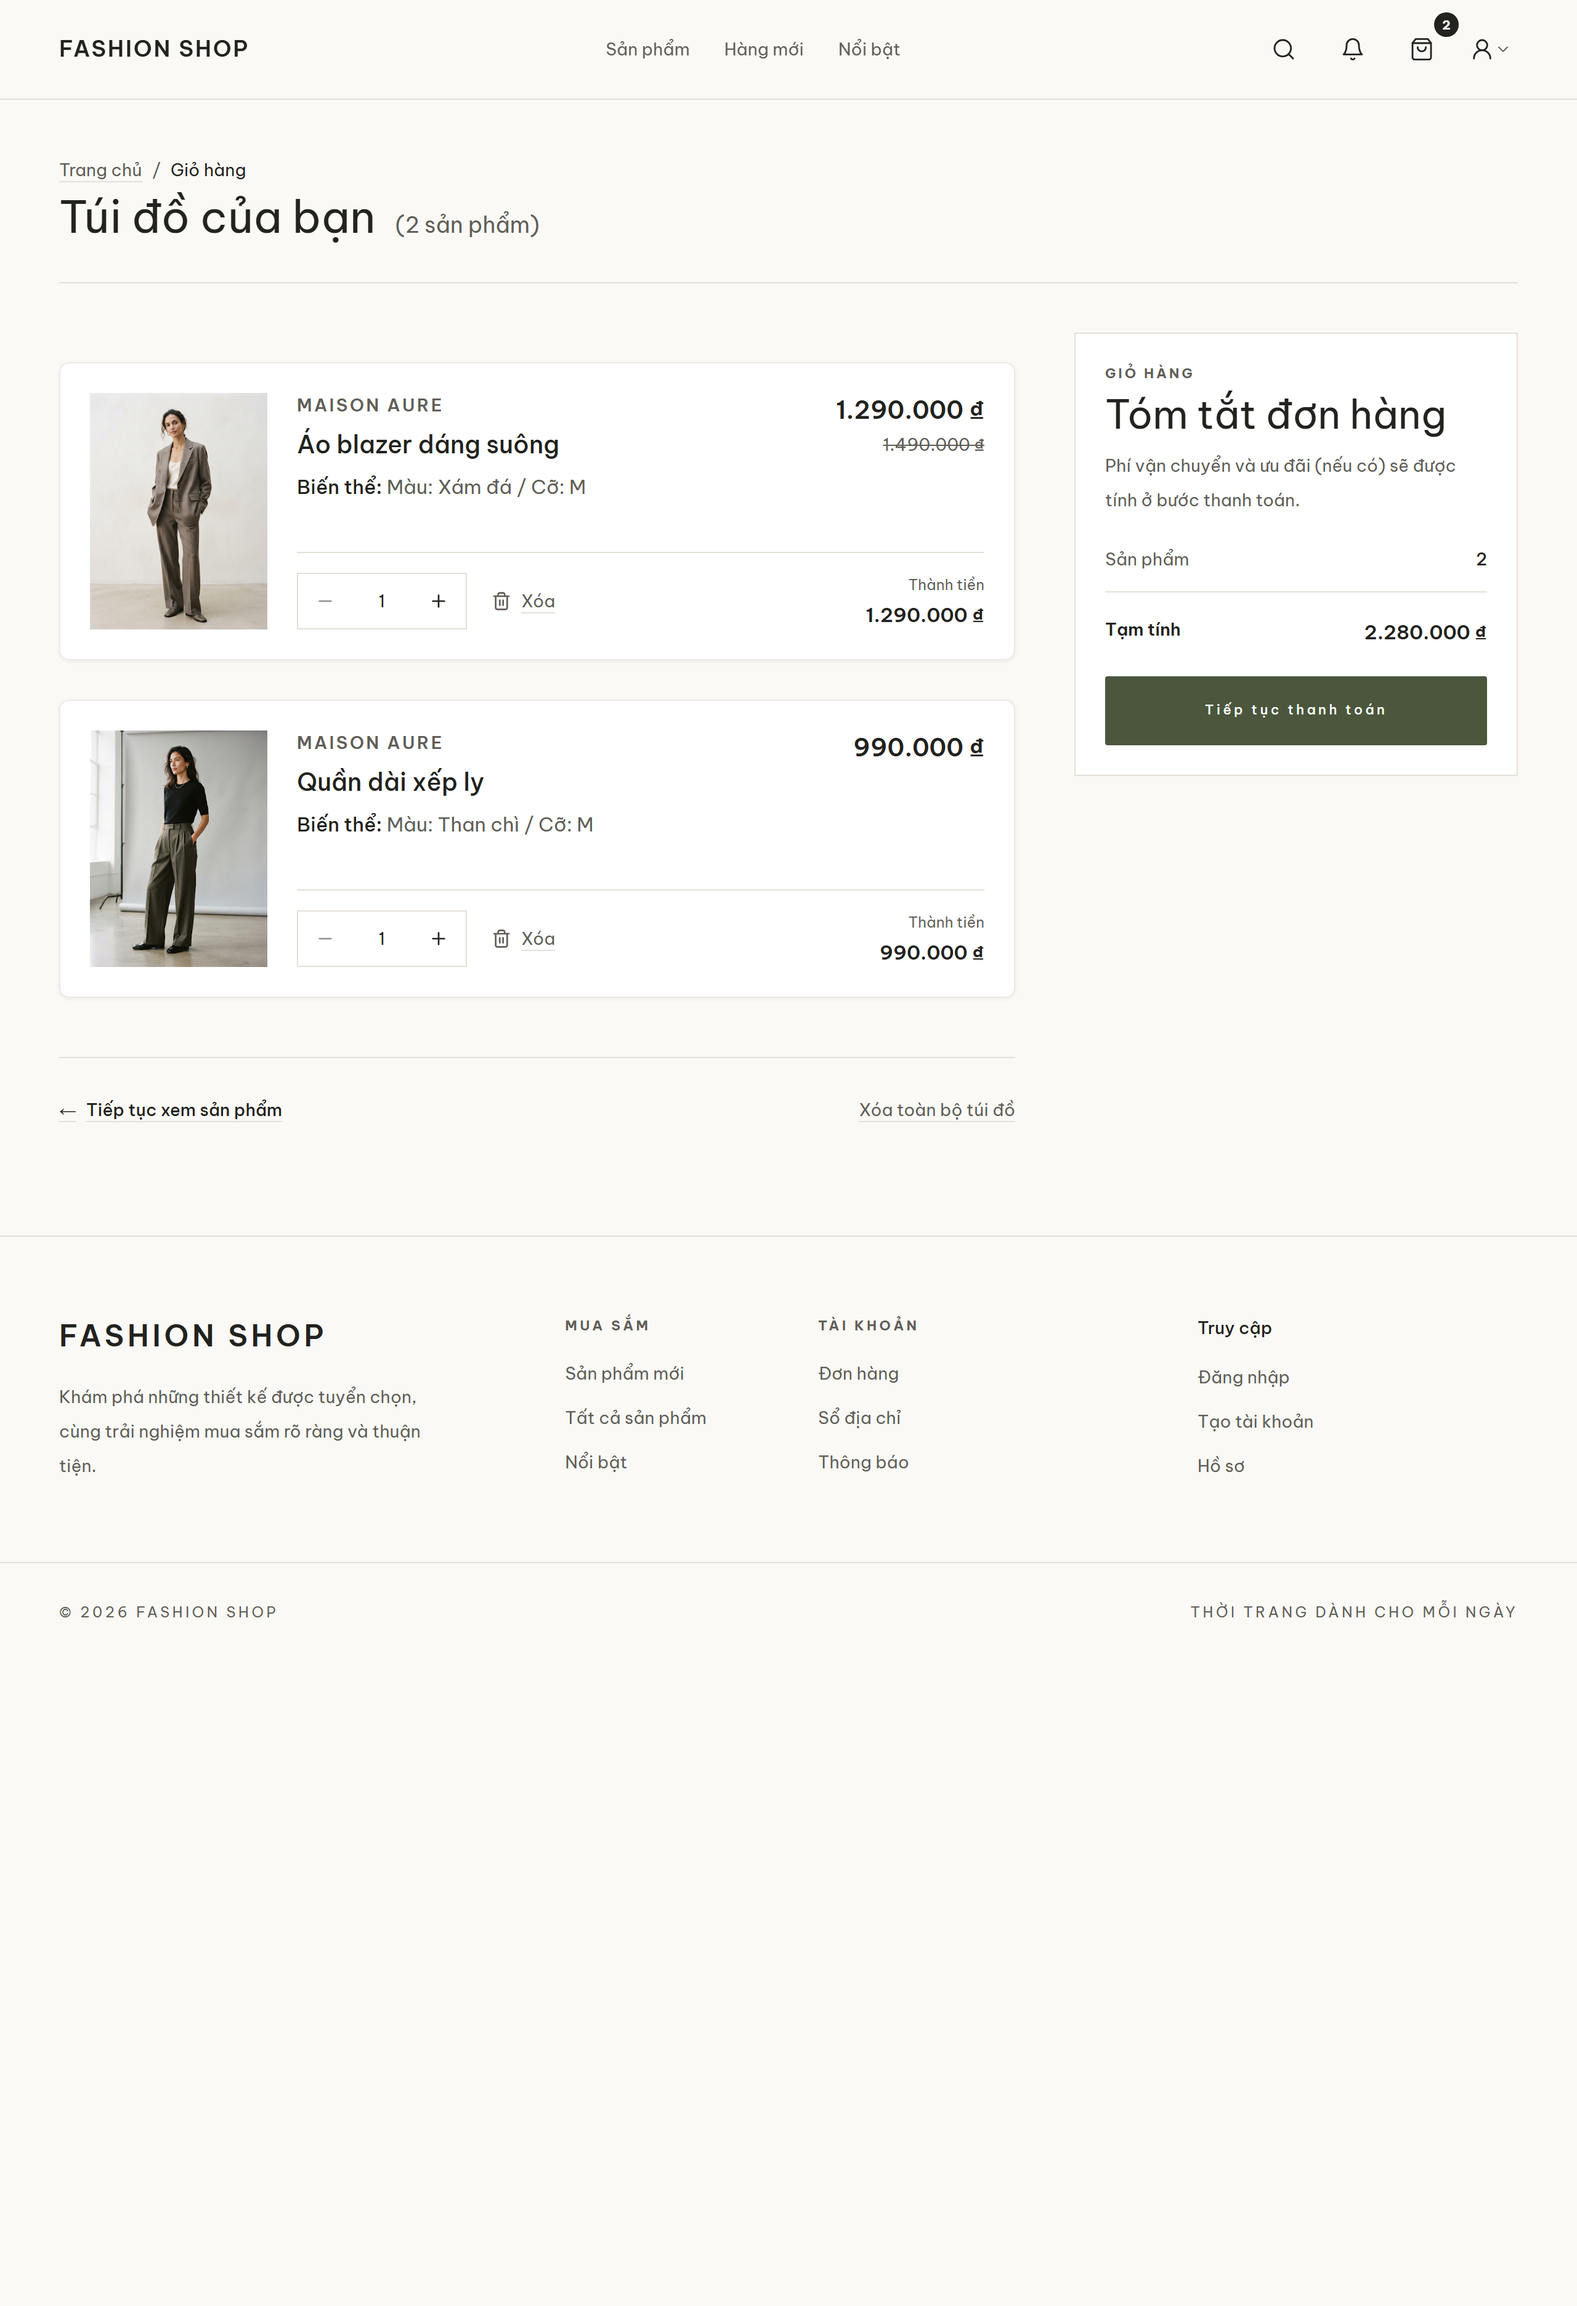
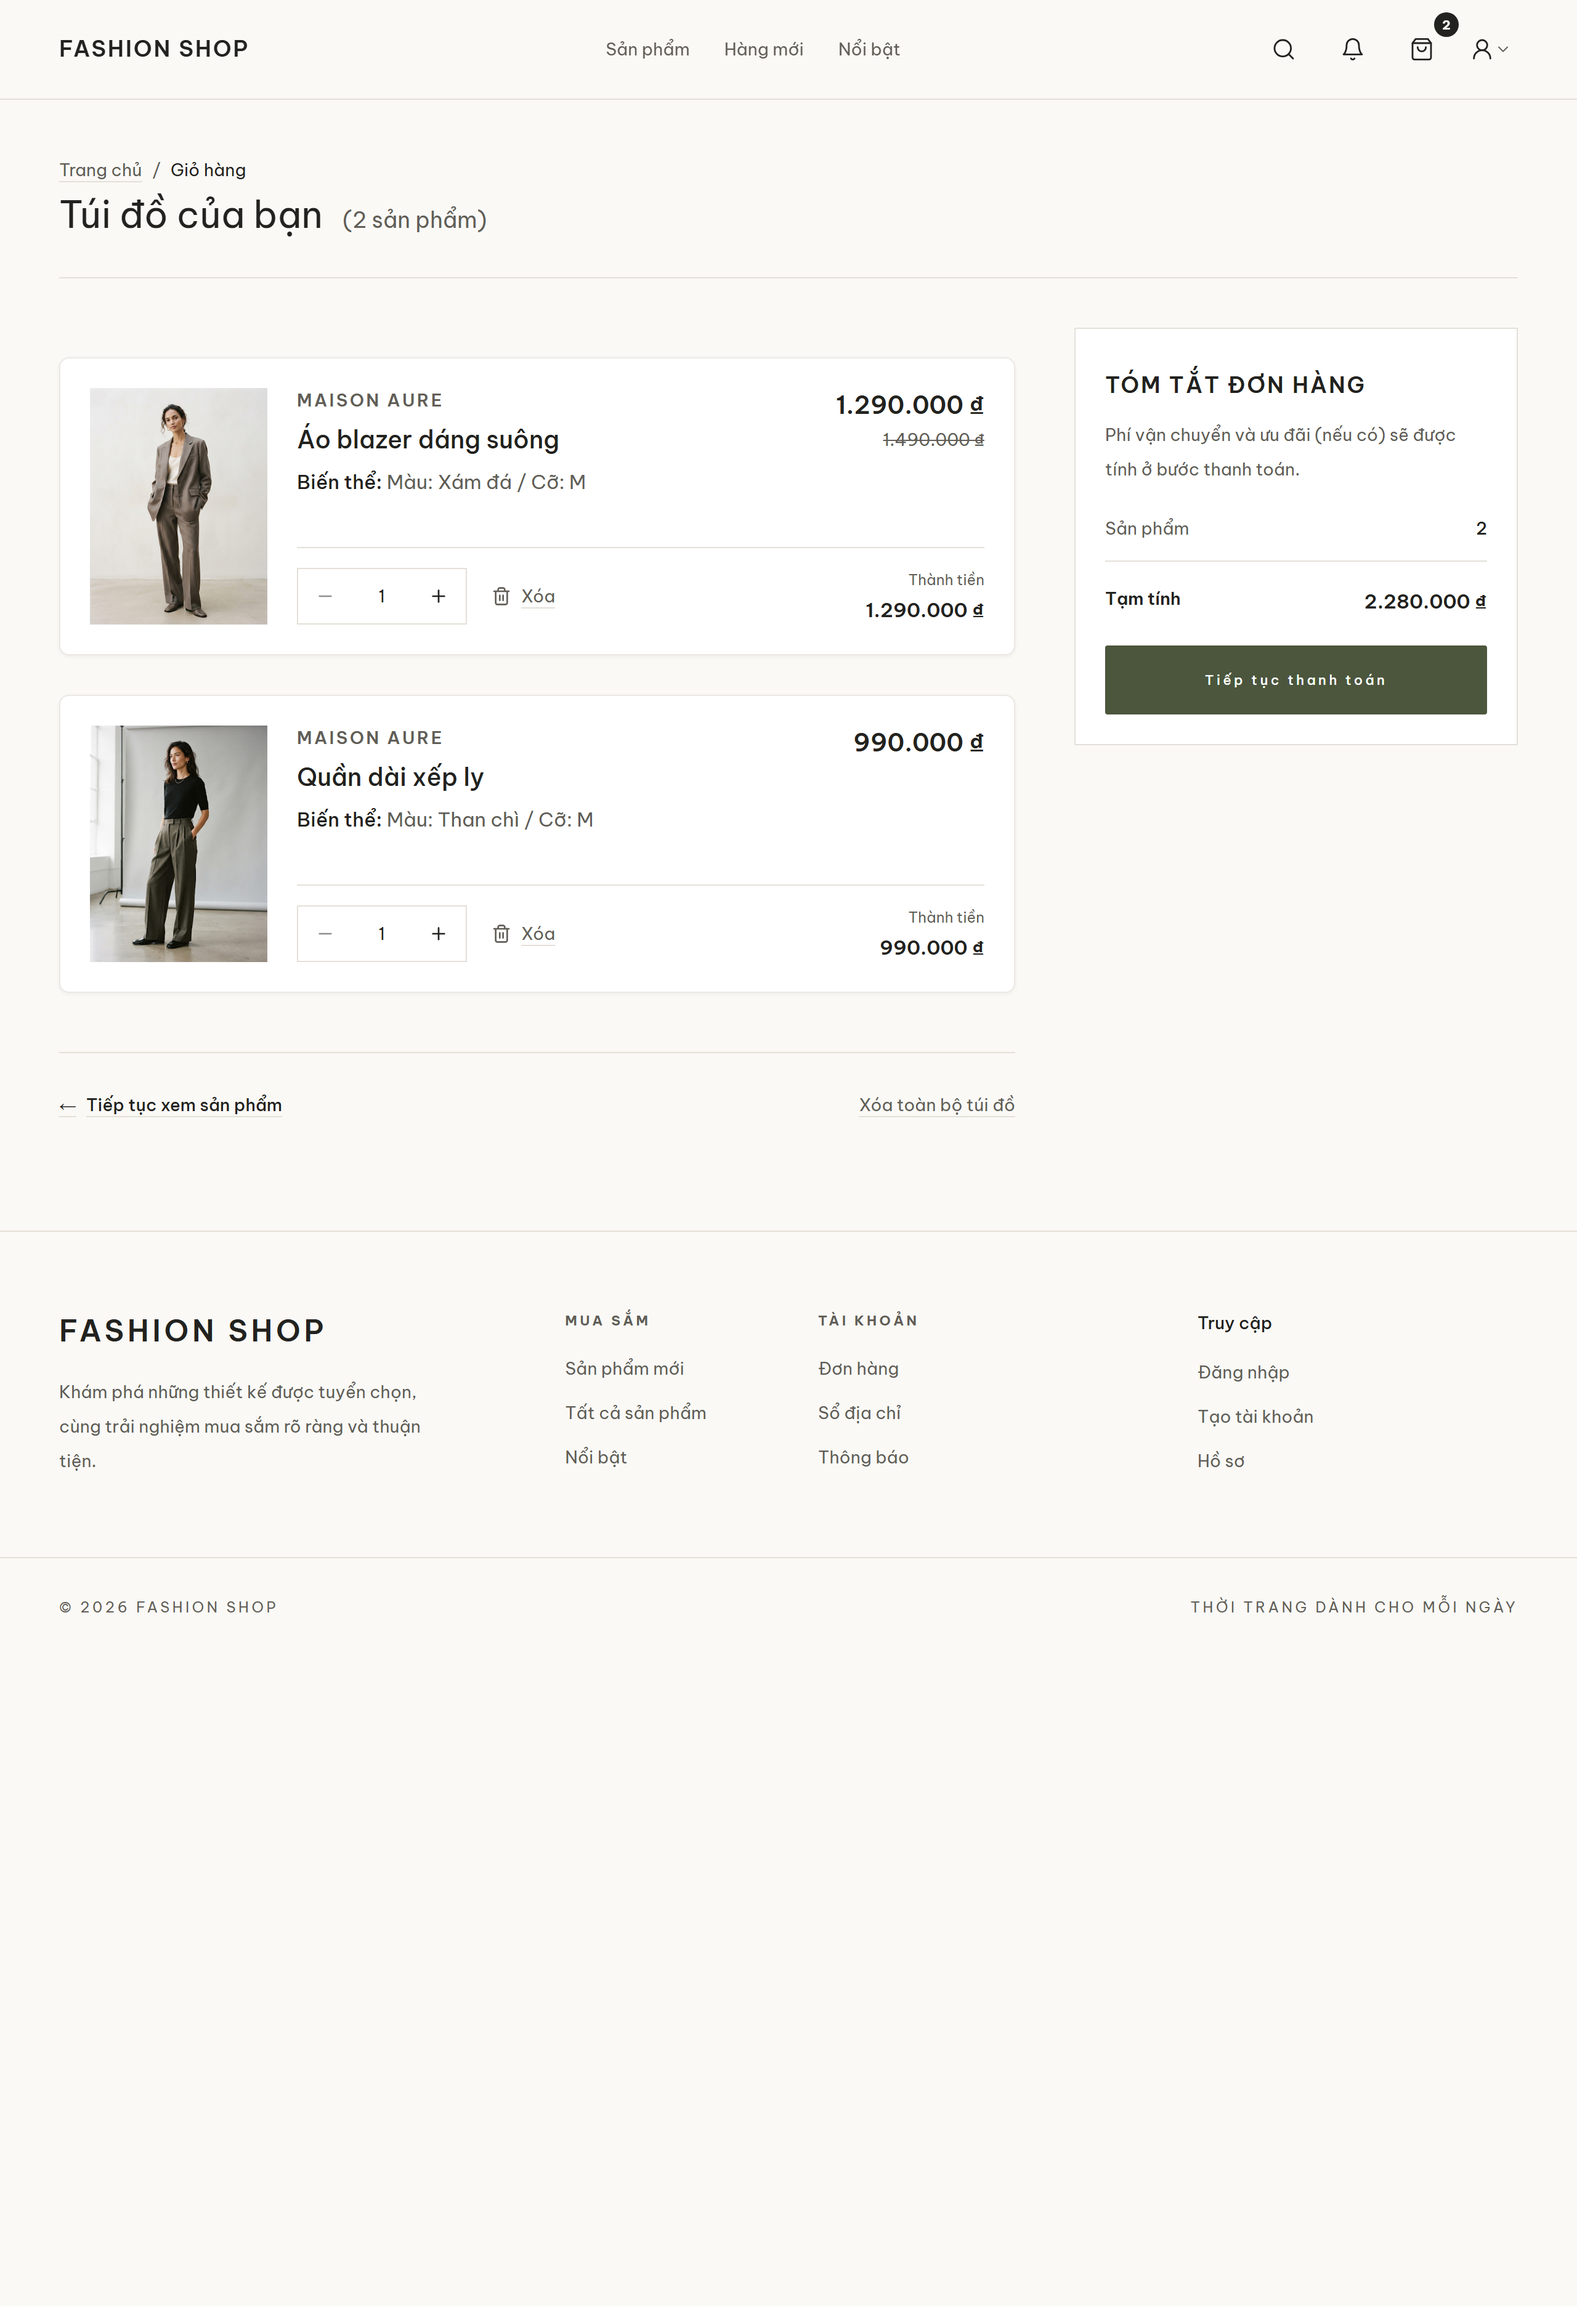
fix(cart): align mobile layout with reviewed design

diff --git a/src/shared/components/commerce/CartItemCard.tsx b/src/shared/components/commerce/CartItemCard.tsx
@@ -17,7 +17,7 @@ export const CartItemCard = ({ item, onQuantityChange, onRemove, updating = fals
   const variantLabel = item.variantName || (item.sku ? `SKU ${item.sku}` : item.variantId);
 
   return (
-    <article aria-busy={updating} className="grid grid-cols-[96px_minmax(0,1fr)] gap-4 rounded-feature border border-border/70 bg-surface px-3 py-3 shadow-subtle sm:grid-cols-[120px_minmax(0,1fr)] sm:gap-5 sm:px-4 sm:py-4 md:grid-cols-[144px_minmax(0,1fr)] md:gap-6 md:px-6 md:py-6">
+    <article aria-busy={updating} className="relative grid min-h-[180px] grid-cols-[96px_minmax(0,1fr)] gap-4 rounded-feature border border-border/70 bg-surface px-3 py-3 shadow-subtle sm:min-h-0 sm:grid-cols-[120px_minmax(0,1fr)] sm:gap-5 sm:px-4 sm:py-4 md:grid-cols-[144px_minmax(0,1fr)] md:gap-6 md:px-6 md:py-6">
       <Link
         aria-label={`Xem ${item.productName}`}
         className="block h-fit overflow-hidden bg-surface-muted focus-visible:outline focus-visible:outline-2 focus-visible:outline-offset-3 focus-visible:outline-brand-primary"
@@ -33,7 +33,7 @@ export const CartItemCard = ({ item, onQuantityChange, onRemove, updating = fals
         />
       </Link>
 
-      <div className="flex min-w-0 flex-col justify-between gap-4 md:gap-5">
+      <div className="flex min-w-0 flex-col justify-between gap-3 sm:gap-4 md:gap-5">
         <div className="flex min-w-0 items-start justify-between gap-3 sm:gap-5">
           <div className="min-w-0">
             <p className="text-xs font-semibold uppercase tracking-[0.12em] text-text-secondary sm:text-sm">{item.brandName}</p>
@@ -43,7 +43,7 @@ export const CartItemCard = ({ item, onQuantityChange, onRemove, updating = fals
               </Link>
             </h2>
             <p className="mt-2 break-words text-sm leading-6 text-text-secondary sm:text-base">
-              <span className="font-medium text-text-primary">Biến thể:</span> {variantLabel}
+              <span className="hidden font-medium text-text-primary sm:inline">Biến thể: </span>{variantLabel}
             </p>
             {item.isStale ? (
               <p className="mt-3 inline-flex min-h-11 items-center border border-danger/30 bg-danger/5 px-3 py-2 text-sm leading-5 text-danger" role="status">
@@ -58,7 +58,7 @@ export const CartItemCard = ({ item, onQuantityChange, onRemove, updating = fals
             </div>
             <button
               aria-label={`Xóa ${item.productName} khỏi giỏ hàng`}
-              className="inline-flex h-11 w-11 shrink-0 items-center justify-center text-text-secondary transition-colors hover:text-danger disabled:cursor-not-allowed disabled:opacity-50 sm:hidden"
+              className="absolute right-3 top-3 inline-flex h-11 w-11 shrink-0 items-center justify-center text-text-secondary transition-colors hover:text-danger disabled:cursor-not-allowed disabled:opacity-50 sm:hidden"
               disabled={updating}
               onClick={onRemove}
               type="button"
@@ -68,19 +68,25 @@ export const CartItemCard = ({ item, onQuantityChange, onRemove, updating = fals
           </div>
         </div>
 
-        <div className="flex flex-col gap-4 border-t border-border pt-4 sm:flex-row sm:items-end sm:justify-between">
+        <div className="flex items-center justify-between gap-2 sm:hidden">
+          <p className="min-w-0 text-base font-semibold text-text-primary">{formatVnd(item.unitPrice)}</p>
+          <QuantitySelector
+            compact
+            disabled={updating}
+            label={`quantity for ${item.productName}`}
+            onChange={onQuantityChange}
+            value={item.quantity}
+          />
+        </div>
+
+        <div className="hidden border-t border-border pt-4 sm:flex sm:items-end sm:justify-between">
           <div className="flex flex-wrap items-center justify-between gap-x-5 gap-y-3 sm:justify-start">
-            <div className="sm:hidden">
-              <p className="text-xs text-text-secondary">Đơn giá</p>
-              <p className="mt-1 whitespace-nowrap font-semibold text-text-primary">{formatVnd(item.unitPrice)}</p>
-            </div>
             <QuantitySelector
               disabled={updating}
               label={`quantity for ${item.productName}`}
               onChange={onQuantityChange}
               value={item.quantity}
             />
-            {updating ? <span className="text-sm text-text-secondary" role="status">Đang cập nhật…</span> : null}
             <button
               aria-label={`Xóa ${item.productName} khỏi giỏ hàng`}
               className="hidden min-h-11 items-center gap-2 text-sm text-text-secondary underline decoration-border underline-offset-4 transition-colors hover:text-danger sm:inline-flex disabled:cursor-not-allowed disabled:opacity-50"
@@ -92,11 +98,12 @@ export const CartItemCard = ({ item, onQuantityChange, onRemove, updating = fals
               Xóa
             </button>
           </div>
-          <div className="text-right">
+          <div className="hidden text-right sm:block">
             <p className="text-xs text-text-secondary">Thành tiền</p>
             <p className="mt-1 font-semibold text-text-primary">{formatVnd(item.subtotal)}</p>
           </div>
         </div>
+        {updating ? <span className="sr-only" role="status">Đang cập nhật số lượng</span> : null}
       </div>
     </article>
   );

diff --git a/src/features/cart/pages/CartPage.tsx b/src/features/cart/pages/CartPage.tsx
@@ -52,8 +52,8 @@ export const CartPage = () => {
   return (
     <>
       <PageSEO description="Xem lại sản phẩm và biến thể trong giỏ hàng trước khi tiếp tục thanh toán." noIndex path={routes.cart} title="Giỏ hàng" />
-      <Container className="space-y-8 pb-16 pt-28 md:space-y-10 md:pb-20 md:pt-32">
-        <header className="border-b border-border pb-6 md:pb-8">
+      <Container className="space-y-3 pb-16 pt-24 md:space-y-10 md:pb-20 md:pt-32">
+        <header className="border-b-0 pb-0 md:border-b md:border-border md:pb-8">
           <div>
             <nav aria-label="Breadcrumb" className="mb-2 text-sm text-text-secondary">
               <Link className="underline decoration-border underline-offset-4 hover:text-text-primary" to={routes.home}>Trang chủ</Link>
@@ -61,7 +61,7 @@ export const CartPage = () => {
               <span aria-current="page" className="text-text-primary">Giỏ hàng</span>
             </nav>
             <div className="flex flex-wrap items-baseline gap-x-4 gap-y-1">
-              <h1 className="text-3xl font-normal leading-tight text-text-primary md:text-4xl">Túi đồ của bạn</h1>
+              <h1 className="text-xl font-normal leading-tight text-text-primary md:text-3xl">Túi đồ của bạn</h1>
               {cart || cartQuery.isLoading ? (
                 <p aria-live="polite" className="text-base text-text-secondary md:text-lg">
                   ({cart ? `${cart.totalItems} sản phẩm` : 'Đang tải…'})
@@ -94,10 +94,10 @@ export const CartPage = () => {
         ) : null}
 
         {cart && cart.items.length > 0 ? (
-          <div className="grid items-start gap-8 lg:grid-cols-[minmax(0,1fr)_360px] lg:gap-12">
+          <div className="grid items-start gap-3 md:gap-8 lg:grid-cols-[minmax(0,1fr)_360px] lg:gap-12">
             <section aria-label="Sản phẩm trong giỏ hàng" className="min-w-0 lg:col-start-1 lg:row-start-1">
               {cart.staleItemCount > 0 ? <StaleCartBanner count={cart.staleItemCount} /> : null}
-              <div className="mt-6 space-y-6 md:space-y-8">
+              <div className="mt-0 space-y-3 md:mt-6 md:space-y-8">
                 {cart.items.map((item) => (
                   <CartItemCard
                     item={item}
@@ -143,7 +143,6 @@ export const CartPage = () => {
             <CartSummary
               className="lg:col-start-2 lg:row-span-2 lg:row-start-1"
               description="Phí vận chuyển và ưu đãi (nếu có) sẽ được tính ở bước thanh toán."
-              eyebrow="Giỏ hàng"
               footer={
                 <div className="space-y-3">
                   <Button

diff --git a/src/shared/components/catalog/QuantitySelector.tsx b/src/shared/components/catalog/QuantitySelector.tsx
@@ -5,23 +5,24 @@ type QuantitySelectorProps = {
   onChange: (value: number) => void;
   disabled?: boolean;
   label?: string;
+  compact?: boolean;
 };
 
-export const QuantitySelector = ({ disabled = false, label = 'quantity', onChange, value }: QuantitySelectorProps) => (
+export const QuantitySelector = ({ compact = false, disabled = false, label = 'quantity', onChange, value }: QuantitySelectorProps) => (
   <div className="inline-flex items-center border border-border bg-white">
     <button
       aria-label={`Decrease ${label}`}
-      className="inline-flex h-11 w-11 items-center justify-center text-text-primary transition-colors hover:bg-surface-muted disabled:cursor-not-allowed disabled:opacity-50"
+      className={`inline-flex h-11 items-center justify-center text-text-primary transition-colors hover:bg-surface-muted disabled:cursor-not-allowed disabled:opacity-50 ${compact ? 'w-10' : 'w-11'}`}
       disabled={disabled || value <= 1}
       onClick={() => onChange(Math.max(1, value - 1))}
       type="button"
     >
       <Minus className="h-4 w-4" />
     </button>
-    <span className="min-w-12 text-center text-sm">{value}</span>
+    <span className={`${compact ? 'min-w-8' : 'min-w-12'} text-center text-sm`}>{value}</span>
     <button
       aria-label={`Increase ${label}`}
-      className="inline-flex h-11 w-11 items-center justify-center text-text-primary transition-colors hover:bg-surface-muted disabled:cursor-not-allowed disabled:opacity-50"
+      className={`inline-flex h-11 items-center justify-center text-text-primary transition-colors hover:bg-surface-muted disabled:cursor-not-allowed disabled:opacity-50 ${compact ? 'w-10' : 'w-11'}`}
       disabled={disabled}
       onClick={() => onChange(value + 1)}
       type="button"

diff --git a/src/shared/components/commerce/CartSummary.tsx b/src/shared/components/commerce/CartSummary.tsx
@@ -52,7 +52,10 @@ export const CartSummary = ({
     <aside className={cn('lg:sticky lg:top-28', summaryShellClasses[variant], className)}>
     {eyebrow ? <p className="text-[11px] font-bold uppercase tracking-[0.18em] text-outline">{eyebrow}</p> : null}
     <div className="mt-2 flex items-center justify-between gap-4">
-      <h2 className="font-display text-[2rem] leading-none text-text-primary">{title}</h2>
+      <h2 className={cn(
+        'leading-tight text-text-primary',
+        isCartSummary ? 'text-base font-semibold uppercase tracking-[0.08em] md:text-lg' : 'font-display text-[2rem] leading-none',
+      )}>{title}</h2>
       {variant !== 'cart' ? (
         <button
           aria-expanded={!collapsed}

diff --git a/e2e/cart.spec.ts b/e2e/cart.spec.ts
@@ -201,6 +201,10 @@ test.describe('Customer cart', () => {
 
     const overflow = await page.evaluate(() => document.documentElement.scrollWidth > window.innerWidth);
     expect(overflow).toBe(false);
+    await page.evaluate(() => window.scrollTo(0, 0));
+    expect(await page.evaluate(() => window.scrollY)).toBe(0);
+    await expect(page.getByText('FASHION SHOP').first()).toBeInViewport();
+    await expect(page.locator('nav.fixed')).toBeInViewport();
     await page.screenshot({ path: 'artifacts/issue-34/cart-mobile.png' });
   });
 

diff --git a/src/shared/components/commerce/CartItemCard.test.ts b/src/shared/components/commerce/CartItemCard.test.ts
@@ -54,7 +54,7 @@ describe('CartItemCard', () => {
     const markup = renderCartItem(true);
 
     expect(markup).toContain('aria-busy="true"');
-    expect(markup).toContain('Đang cập nhật…');
-    expect(markup.match(/disabled=""/g)).toHaveLength(4);
+    expect(markup).toContain('Đang cập nhật số lượng');
+    expect(markup.match(/disabled=""/g)).toHaveLength(6);
   });
 });
